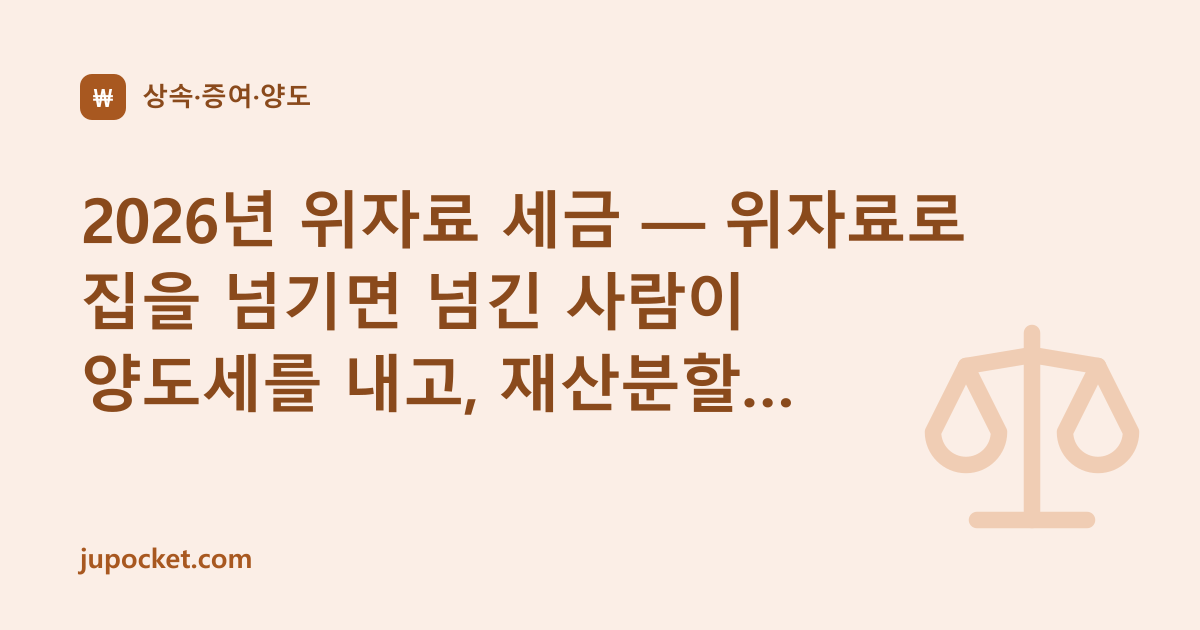
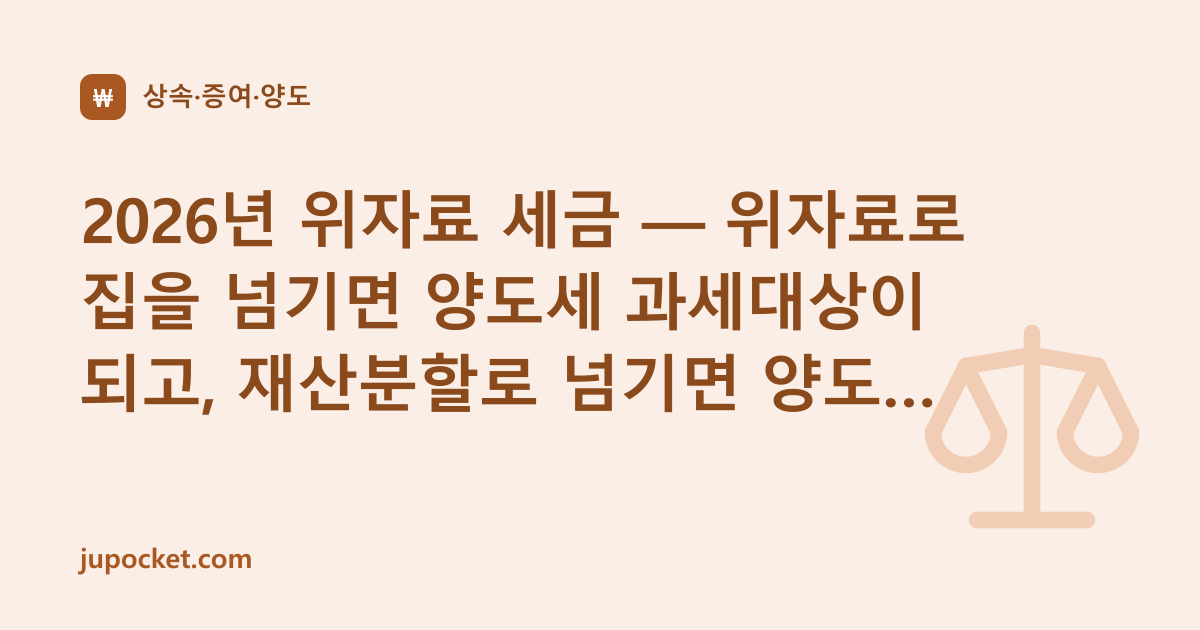
fix: 이혼 재산분할 세금 — '명목·등기 원인이 세금을 가른다'를 '실질로 판단'으로, '양도세를 낸다'를 '과세대상'으로, 1.5%는 부동산 기준
- 대법원 2012두10901 은 조정조항 문구('소유권 이전으로 갈음')를 근거로 한 원심의 대물변제 판단을 파기했다 — 문구가 아니라
  가정법원에서 재산분할 대상으로 다뤘는지로 판단. 허브 QA·위자료 글 AnswerBox 를 이에 맞춤(2001두4573 직권 산정도 반영)
- 2001두4573 은 '과세대상인 유상양도'까지 판단 — 제목·설명·표를 '양도세 대상'으로 (납부 여부는 비과세 요건 등에 달림)
- 허브 취득세 1.5%에 '부동산' 한정(제15조 ①은 제12조 차량 세율에도 적용되나 확인하지 않음)

Changed region(s): [[0.0617, 0.4222, 0.7708, 0.6635]]

diff --git a/src/data/clusters.ts b/src/data/clusters.ts
@@ -377,9 +377,9 @@ export const clusters: Cluster[] = [
       { href: "/guide/farmland-capital-gains/", title: "농지 양도세, 8년 자경 100% 감면", kind: "guide", icon: "scale", year: 2026 },
       { href: "/guide/child-gift-limit/", title: "자녀 증여 한도 — 성인 자녀 10년간 5천만원, 미성년 자녀 2천만원까지 세금이 없습니다", kind: "guide", icon: "scale", year: 2026 },
       { href: "/guide/child-wedding-gift/", title: "자녀 결혼자금 증여 — 혼인신고 전후 2년 안이면 1억원을 더해 1억5천만원까지 세금이 없습니다", kind: "guide", icon: "scale", year: 2026 },
-      { href: "/guide/divorce-property-tax/", title: "이혼 재산분할 세금 — 양도세·증여세는 원칙적으로 없고 취득세는 1.5%, 위자료로 넘기면 양도세입니다", kind: "guide", icon: "scale", year: 2026 },
+      { href: "/guide/divorce-property-tax/", title: "이혼 재산분할 세금 — 양도세·증여세는 원칙적으로 없고 취득세는 1.5%, 위자료로 넘기면 양도세 대상입니다", kind: "guide", icon: "scale", year: 2026 },
       { href: "/guide/divorce-acquisition-tax/", title: "재산분할 취득세 — 무상취득 3.5%에서 2%를 뺀 1.5%, 5억원 집이면 지방교육세 포함 900만원입니다", kind: "guide", icon: "scale", year: 2026 },
-      { href: "/guide/divorce-alimony-tax/", title: "위자료 세금 — 위자료로 집을 넘기면 넘긴 사람이 양도세를 내고, 재산분할로 넘기면 내지 않습니다", kind: "guide", icon: "scale", year: 2026 },
+      { href: "/guide/divorce-alimony-tax/", title: "위자료 세금 — 위자료로 집을 넘기면 양도세 과세대상이 되고, 재산분할로 넘기면 양도가 아닙니다", kind: "guide", icon: "scale", year: 2026 },
     ],
   },
 ];
